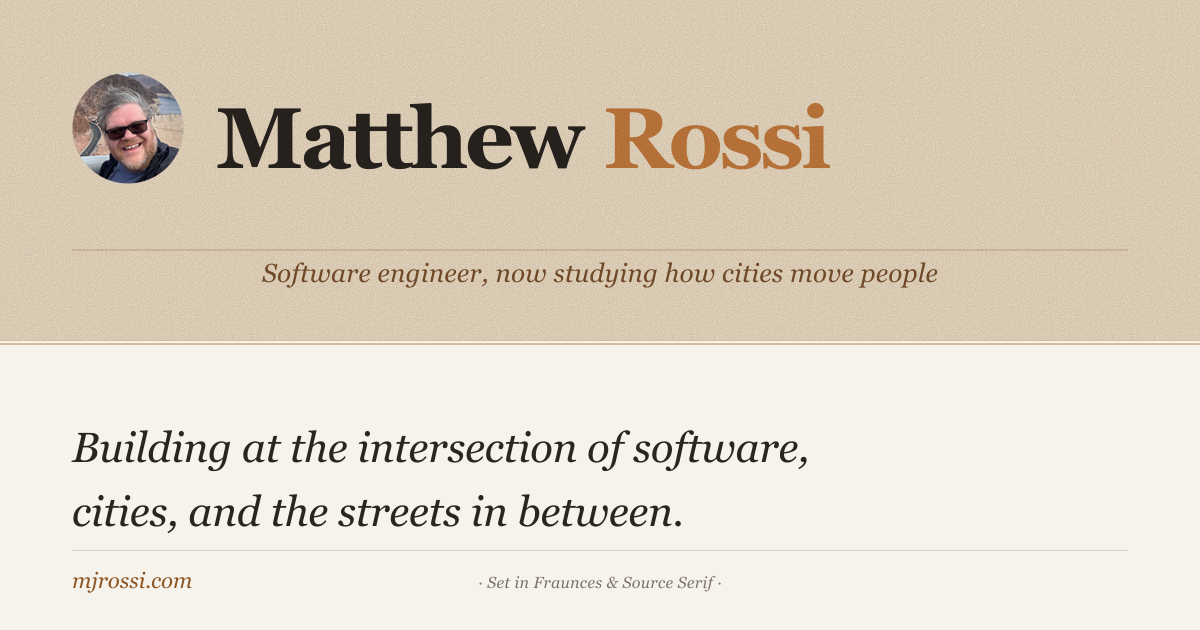
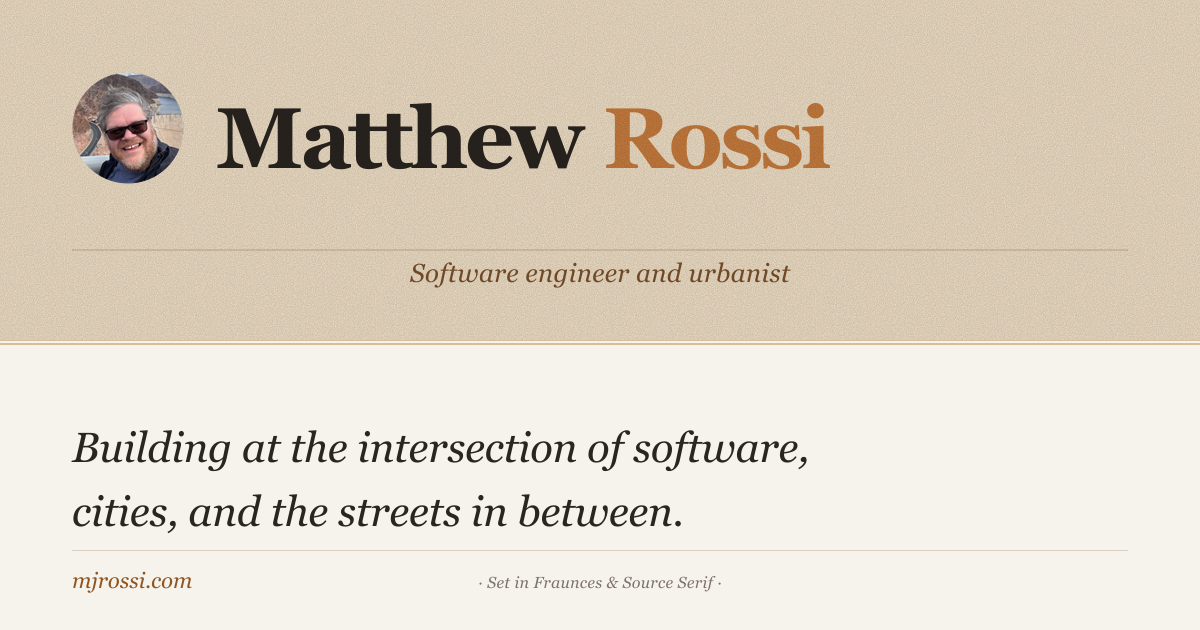
Social card gets its own identity-only line; review fixes
- src/lib/identity.js: CARD_TAGLINE ("Software engineer and urbanist") and
  CARD_DESCRIPTION. The masthead TAGLINE says "now studying", a fact about
  the present; the card is cached by scrapers indefinitely, so it says
  CARD_TAGLINE instead. make-og.mjs renders it, the default og:image:alt
  follows it, public/og.png regenerated (still ?v=3, unshipped).
- Smoke: make-og.mjs must name CARD_TAGLINE and not TAGLINE; neither
  renderer may spell CARD_TAGLINE itself.
- Smoke: the Night checks are anchored on the @media screen wrapper, which is
  the print fallback. Unanchored, they passed with it deleted.
- Theme toggle: the visible pressed state keys off <html data-theme>, set
  before first paint, not aria-pressed, which syncs at DOMContentLoaded.
- Inter 700 loaded (nav cells, foot headings, tag chips were faux-bold).
  Same variable-font file; no extra request.
- --danger token in Paper and both Night blocks; the galley composer's
  error line uses it instead of the meta-text brown.
- Docs: identity.js entries, "chrome that works whole without JS", the
  surname's 2.6:1 on the band, and the carve-out counts in smoke comments.

Changed region(s): [[0.2158, 0.4222, 0.8017, 0.4524]]

diff --git a/src/lib/identity.js b/src/lib/identity.js
@@ -31,8 +31,22 @@
 // than a sentence — an `<h1>` with a `<span>` here, a `<text>` with a `<tspan>`
 // there — so there is no shared value to lift, only a shared shape.
 
-/** The masthead tagline. Also the spine of `SITE_DESCRIPTION` below. */
+/**
+ * The masthead tagline. Also the spine of `SITE_DESCRIPTION` below.
+ *
+ * NOT the social card's line. "Now studying" is a fact about the present, and
+ * the card may state identity only (see `scripts/make-og.mjs`): the page is
+ * re-rendered on every request and can follow this sentence, but the card is
+ * cached by scrapers that never re-fetch it. The card says `CARD_TAGLINE`.
+ */
 export const TAGLINE = 'Software engineer, now studying how cities move people';
+
+/**
+ * The social card's line: who, not what now. It must stay true for as long as
+ * a scraper might hold the card, which is indefinitely. Changing it means
+ * `just og`, then bumping `?v=` on `Base.astro`'s `ogImage` default.
+ */
+export const CARD_TAGLINE = 'Software engineer and urbanist';
 
 /**
  * The Urbanist Lexicon's own line: the tagline of the periodical's masthead on
@@ -49,8 +63,8 @@ export const SET_IN = 'Set in Fraunces & Source Serif';
 export const BUILT_WITH = 'Built in Astro, served from the edge';
 
 /**
- * The default `<meta name="description">`, `og:description` and OG-card alt
- * text — the tagline as a sentence, with the byline in front.
+ * The default `<meta name="description">` and `og:description` — the tagline
+ * as a sentence, with the byline in front.
  *
  * Derived rather than spelled out because it *is* the tagline: written
  * separately it was a fourth copy, and the one furthest from anything a reader
@@ -58,3 +72,10 @@ export const BUILT_WITH = 'Built in Astro, served from the edge';
  */
 export const SITE_DESCRIPTION =
   `Matthew Rossi — ${TAGLINE[0].toLowerCase()}${TAGLINE.slice(1)}.`;
+
+/**
+ * The default `og:image:alt` / `twitter:image:alt`. Alt text describes the
+ * image, so it follows the card's line, not the masthead's.
+ */
+export const CARD_DESCRIPTION =
+  `Matthew Rossi — ${CARD_TAGLINE[0].toLowerCase()}${CARD_TAGLINE.slice(1)}.`;

diff --git a/src/styles/global.css b/src/styles/global.css
@@ -13,6 +13,10 @@
   --accent-tagline: oklch(46% 0.07 60);
   --accent-hover: #7a4a1a;
 
+  /* A failed action, and nothing else: the galley composer's error line.
+     ≥5.3:1 on --bg and --bg2 in both themes. */
+  --danger: #aa3333;
+
   /* Ported from Urbanist Atlas so the two sites draw rules and secondary ink
      from one vocabulary (Atlas: --ink-2, --rule-strong). */
   --text-2: #3a312a;
@@ -67,6 +71,7 @@
     --accent-rule: oklch(40% 0.045 65);
     --accent-tagline: oklch(74% 0.07 65);
     --rule-strong: oklch(52% 0.04 70);
+    --danger: #e8877a;
     --grain-opacity: 0.12;
     --grain-blend: screen;
     color-scheme: dark;
@@ -89,6 +94,7 @@
     --accent-rule: oklch(40% 0.045 65);
     --accent-tagline: oklch(74% 0.07 65);
     --rule-strong: oklch(52% 0.04 70);
+    --danger: #e8877a;
     --grain-opacity: 0.12;
     --grain-blend: screen;
     color-scheme: dark;
@@ -483,7 +489,14 @@ a.masthead-name-link:hover .surname {
   color: var(--accent);
 }
 
-.theme-toggle button[aria-pressed='true'] {
+/* The visible pressed state keys off <html data-theme>, which theme.js sets
+   before the first paint, not off aria-pressed, which it can only sync once
+   the DOM exists. Keyed off aria-pressed, a long post painting progressively
+   showed a reader who chose Dark the Auto glyph underlined until
+   DOMContentLoaded. aria-pressed stays for assistive tech. */
+:root:not([data-theme]) .theme-toggle [data-theme-choice='auto'],
+:root[data-theme='light'] .theme-toggle [data-theme-choice='light'],
+:root[data-theme='dark'] .theme-toggle [data-theme-choice='dark'] {
   color: var(--accent);
   border-bottom-color: var(--accent);
 }

diff --git a/docs/FILE-MAP.md b/docs/FILE-MAP.md
@@ -40,7 +40,7 @@ For the preview-link clock-and-cap model, the galley, and the Desk, the narrativ
 - `src/lib/blog.ts` — `getPublishedPosts`, `getAllTags`, `getPostsByTag`, `getTagCounts` (the topic index), `getAdjacentPosts` (previous/next), `getLatestPosts` (the post or posts a surface features), plus the `dateFormatter` / `isoDate` / `postReadingTime` helpers used by `BlogPostEntry.astro`. **`getAdjacentPosts` and `getLatestPosts` are one line each now** — the rule they used to hold lives in `src/lib/archive.js`, and these are the fetch in front of it. `static.mjs` asserts they still *call* it, the same shape as the `isPublished` call-site check. The single boundary between content source and rendering — a future D1 migration swaps only this module. `getPublishedPosts` also enforces scheduled publishing: in production (`import.meta.env.PROD`) it hides any post whose `pubDate` is in the future; in dev those posts stay visible for preview. Because index, tag, and post routes all flow through it, that one filter gates every surface (RSS included, via the on-demand feed). All three helpers take an optional `{ showScheduled }` — passed from `Astro.locals` so `*.workers.dev` preview deploys show drafts — defaulting to hidden so a call site that forgets it fails closed. The per-post signed-link unlock is deliberately *not* threaded through here; see "Previewing a scheduled post".
 - `src/lib/edition.js` — `issue(now?)` → `{ volume, number, label, short }`, plus `toRoman` and an `editionLine` alias for the full label. **One derivation, from one fixed launch epoch (`EPOCH = { year: 2026, month: 4 }`), called once per render in `Base.astro`.** The August 2026 design review found `/blog` rendering `No. VII · July 2026` while home and the posts rendered `No. VIII · August 2026` — a masthead whose date went backwards as the reader clicked. Nothing rendered in a **page's chrome** may derive an issue from a page, a route, or a content date — that is the bug, and it is a bug because two live surfaces disagreed about what *today's* issue was. A **build-time artifact that dates itself** is the one exception, and there is exactly one: `scripts/make-post-og.mjs` prints `issue(pubDate).short` on a post's OG card. That is a different claim — the issue the post ran in, not the issue it is now — and it is the claim a periodical's archived piece actually makes. It also cannot drift, which is the property `make-og.mjs` omits an edition line to protect: `pubDate` is fixed, so the card regenerates identically forever, where `issue(now)` would move under it every month. Do not read that exception as licence to put a content date into `Base.astro`. The number counts **months since launch**, not the calendar month: the old rule had the two halves on different clocks (`No. XII` was December whether the periodical was one month old or nine, and the volume turned over on New Year's Day). Twelve issues to a volume, the volume turning on the anniversary. Plain JS, not TypeScript, for the usual reason — the failure here is a plausible wrong number, so it needs tests and tests need an importable module. Unit-tested in `src/lib/edition.test.js`, which pins the launch month, the 1..12 range, the volume rollover, and the UTC month boundary.
 - `src/lib/tags.js` — `tagLabel(slug)` (title-cased for display, kebab slug stays in the URL — chips used to show `safe-streets` raw) and `RETIRED` / `retiredTarget(slug)`, the map from a tag the August 2026 consolidation dropped to where it goes now. Both jobs in one module because they are the same fact from two sides: what a topic is called, and what it used to be called. `src/pages/blog/tag/[tag].astro` checks `retiredTarget` **before** the membership test — a retired slug is by definition no longer in the live set — and 301s. Unit-tested in `src/lib/tags.test.js`, which also asserts every retired tag points at a slug some post actually carries (a map pointing at a 404 is worse than the 404 it replaced) and pins the working vocabulary against real frontmatter.
-- `src/lib/identity.js` — `TAGLINE`, `SET_IN`, `BUILT_WITH`, `SITE_DESCRIPTION`: the sentences the site says about itself. Here because they are said in **two rendering engines that can import them** — `Base.astro` emits them as HTML on every page, `scripts/make-og.mjs` renders them into the SVG behind `public/og.png` — and a string spelled once per engine drifts. The OG card is the half that drifts *silently*: it is a manual `just og` step rather than a build step, and nothing here can read text out of a PNG. `SITE_DESCRIPTION` is derived from `TAGLINE` rather than written out, which removed two further copies inside `Base.astro` itself (`SITE_ALT` and the `description` default). **Stores plain text** — escaping belongs to the renderer, since Astro escapes its own `{}` expressions while the SVG needs `&amp;`; a pre-escaped string is wrong in the other engine. The two-tone wordmark and `mjrossi.com` are deliberately *not* here: they are shared markup shapes rather than shared sentences, so there is no value to lift. `scripts/smoke/static.mjs` asserts neither renderer spells either sentence itself, folding `&amp;` back to `&` first so the colophon's ampersand cannot hide a re-inlining. **The colophon has a third engine, and it cannot import** — `docs/buttondown-rss-template.md` is pasted by hand into Buttondown's dashboard, so it spells `SET_IN` and `BUILT_WITH` as literal markdown. That copy is pinned the *other* way round: smoke asserts the template still **matches** these constants, so editing one of them goes red until the template is updated and re-pasted. Rewriting a sentence here is therefore an operator step as well as a code change.
+- `src/lib/identity.js` — `TAGLINE`, `LEXICON_TAGLINE`, `CARD_TAGLINE`, `SET_IN`, `BUILT_WITH`, `SITE_DESCRIPTION`, `CARD_DESCRIPTION`: the sentences the site says about itself. Here because they are said in **two rendering engines that can import them** — `Base.astro` emits them as HTML on every page, `scripts/make-og.mjs` renders them into the SVG behind `public/og.png` — and a string spelled once per engine drifts. The OG card is the half that drifts *silently*: it is a manual `just og` step rather than a build step, and nothing here can read text out of a PNG. `SITE_DESCRIPTION` is derived from `TAGLINE` rather than written out, which removed two further copies inside `Base.astro` itself (`SITE_ALT` and the `description` default). **The card does not say `TAGLINE`.** The masthead line may state a fact about the present ("now studying"), because the page re-renders on every request; the card is cached by scrapers indefinitely, so `make-og.mjs` renders `CARD_TAGLINE`, an identity-only line, and the default `og:image:alt` is `CARD_DESCRIPTION`, derived from it, because alt text describes the image. Smoke asserts the generator names `CARD_TAGLINE` and not `TAGLINE`. `LEXICON_TAGLINE` is the periodical's own line, said by its masthead, the `/blog` description and the feed's `<description>`; smoke asserts none of the three spells it. **Stores plain text** — escaping belongs to the renderer, since Astro escapes its own `{}` expressions while the SVG needs `&amp;`; a pre-escaped string is wrong in the other engine. The two-tone wordmark and `mjrossi.com` are deliberately *not* here: they are shared markup shapes rather than shared sentences, so there is no value to lift. `scripts/smoke/static.mjs` asserts neither renderer spells either sentence itself, folding `&amp;` back to `&` first so the colophon's ampersand cannot hide a re-inlining. **The colophon has a third engine, and it cannot import** — `docs/buttondown-rss-template.md` is pasted by hand into Buttondown's dashboard, so it spells `SET_IN` and `BUILT_WITH` as literal markdown. That copy is pinned the *other* way round: smoke asserts the template still **matches** these constants, so editing one of them goes red until the template is updated and re-pasted. Rewriting a sentence here is therefore an operator step as well as a code change.
 - `src/lib/now.js` — `NOW_UPDATED` (`YYYY-MM`) and `nowUpdatedLabel()`, the dateline under the home page's **Now** heading. A config value rather than a string in the markup, so updating the section is one obvious line and a malformed value fails the build instead of rendering `Updated undefined`. Formatted from the parts, never through `new Date('2026-08')`, which is midnight UTC and renders as the previous month west of Greenwich. Unit-tested in `src/lib/now.test.js`.
 - `src/lib/readingTime.js` — word-count read time. Plain JS (was `.ts`) so `scripts/make-post-og.mjs` can import it under bare Node: the OG card prints the same read time the page does, and two implementations would drift the first time `WORDS_PER_MINUTE` moved.
 - `src/layouts/BlogPost.astro` — post chrome (title, byline, tags, optional cover, back link).
@@ -99,7 +99,7 @@ For the preview-link clock-and-cap model, the galley, and the Desk, the narrativ
   - `live-preview.mjs` — "can a draft leak": the scheduled-post matrix, the galley matrix, the allowlist, the write-quota flood, anchoring, and both directions of the host unlock.
   - `access.mjs` — the Cloudflare Access harness: a keypair generated per run, the JWKS handed to the worker as `ACCESS_JWKS_OVERRIDE`, and a minter. Also `conflictingDevVars`, which is why `smoke.mjs` refuses to start when `.dev.vars` would shadow it — wrangler prefers `.dev.vars` over `--var`, and unlike `PREVIEW_SIGNING_KEY` smoke cannot adopt the developer's value, because the matching private key is not in the file.
   - `live-desk.mjs` — "can the draft inventory leak": `/admin` closed to no token, an expired one, a malformed one, and a valid token for a **different Access application on the same team**; then open to a real one, with `no-store` + `noindex`, the fixture roster, the notes, and the orphan section's slug rendered as a *link* (it is the only route to that roster). The negative cases fail independently on purpose. The `desk-` HTML greps here are only half the leak check — see `static.mjs` for the CSS-bundle half.
-- `scripts/make-noise.mjs`, `scripts/make-og.mjs` — one-off regenerators for `public/noise.png` and `public/og.png`. **The site-level card states identity only — never a fact about the present.** Social scrapers cache by image URL and effectively never re-fetch, so a card asserting where I live is wrong the moment that moves *and* the correction cannot reach the caches already holding it. That is the general rule the missing edition line was only the first case of: the card read "Brooklyn, New York" for months after the masthead said Lisbon, because this is a manual `just og` step rather than a build step and nothing compared the two. `make-post-og.mjs` may carry a date and a read time because those are facts about the *post*, pinned to a `pubDate` that never moves. `scripts/smoke/static.mjs` greps the generator for the regression, since nothing here can read text out of a PNG. Bump the `?v=` on `Base.astro`'s `ogImage` default whenever the card changes — the filename stays put, so a scraper that strips the query still lands on the current card.
+- `scripts/make-noise.mjs`, `scripts/make-og.mjs` — one-off regenerators for `public/noise.png` and `public/og.png`. **The site-level card states identity only — never a fact about the present.** Social scrapers cache by image URL and effectively never re-fetch, so a card asserting where I live is wrong the moment that moves *and* the correction cannot reach the caches already holding it. That is the general rule the missing edition line was only the first case of, and why the card's line is `CARD_TAGLINE` rather than the masthead's `TAGLINE`: the card read "Brooklyn, New York" for months after the masthead said Lisbon, because this is a manual `just og` step rather than a build step and nothing compared the two. `make-post-og.mjs` may carry a date and a read time because those are facts about the *post*, pinned to a `pubDate` that never moves. `scripts/smoke/static.mjs` greps the generator for the regression, since nothing here can read text out of a PNG. Bump the `?v=` on `Base.astro`'s `ogImage` default whenever the card changes — the filename stays put, so a scraper that strips the query still lands on the current card.
 - `scripts/make-post-og.mjs` — **runs on every `npm run build`**, after `astro build`, writing one 1200×630 card per post into `dist/client/og/<slug>.png`. Not a one-off like the two above: a post without a card would fall back to the generic image silently, so the generator enumerates the content directory and cannot rot. **Published posts only** — a card carries the post's title and `/og/<slug>.png` is a guessable URL, so generating one for a scheduled draft would hand that draft's title to anyone who guessed the slug (cover images get away with being built ahead because `astro:assets` hash-names them). A post therefore uses `/og.png` until the deploy that follows its publication, which step 5 of the authoring workflow produces anyway.
 
   **The layout asks the build's clock, not the request's, and the two are not interchangeable.** `BlogPost.astro` advertises a card when `isPublished(pubDate, __BUILD_TIME__)` — not when the post is published *now*. A post goes live by its `pubDate` passing with no deploy behind it, which is the whole scheduled-publishing mechanism; gate the `og:image` on the request's clock and that post starts advertising an `/og/<slug>.png` nobody generated, 404ing for every scraper during exactly the manual-syndication window the card exists for. Nothing else can see this: at build time the two agree by construction, so the built HTML is identical and every artifact check passes — the divergence opens hours later, in production. Three things pin it, and all three are needed because each is satisfied by a build that emitted no cards at all: a source grep on the gate (`scripts/smoke/static.mjs`), the file on disk plus the fixture's card being **absent** (same file), and the worker actually serving it (`live-site.mjs`, which is the ASSETS-binding half rather than the generator's). Renders SVG through **sharp** rather than Satori in the worker: sharp already ships with astro, so this costs a build step and nothing at runtime, whereas Satori plus a WASM rasteriser plus embedded font binaries is a large addition to a worker whose point is being small. Title width is *estimated*, not measured (0.58em/char with headroom, stepping the size down a ladder until it fits) — the estimate errs generous on purpose, because being wrong the other way runs the last word off the card.

diff --git a/CLAUDE.md b/CLAUDE.md
@@ -58,7 +58,7 @@ One line per file. **The reasoning — why each rule exists and the bug it preve
 - `src/lib/pubdate.js` — `coercePubDate`: the frontmatter-date rule, shared by the build and the minting scripts. Rejects one shape only.
 - `src/lib/tags.js` — `tagLabel` plus `RETIRED` / `retiredTarget`, the map from a consolidated tag to where it goes now.
 - `src/lib/edition.js` — `issue(now?)`. **One derivation, one launch epoch, called once per render in `Base.astro`.** Nothing in page chrome may derive an issue from content.
-- `src/lib/identity.js` — `TAGLINE`, `LEXICON_TAGLINE`, `SET_IN`, `BUILT_WITH`, `SITE_DESCRIPTION`: the sentences the site says about itself, in **three** engines.
+- `src/lib/identity.js` — `TAGLINE`, `LEXICON_TAGLINE`, `CARD_TAGLINE`, `SET_IN`, `BUILT_WITH`, `SITE_DESCRIPTION`, `CARD_DESCRIPTION`: the sentences the site says about itself, in **three** engines. The social card says `CARD_TAGLINE`, never `TAGLINE`.
 - `src/lib/now.js` — `NOW_UPDATED` and `nowUpdatedLabel()`, the dateline under the home page's Now heading.
 - `src/lib/readingTime.js` — word-count read time. Plain JS so the OG generator can import it under bare Node.
 - `src/lib/post-source.ts` — `SOURCE_BY_SLUG` and `revisionOf(slug)`. Two definitions of this hash would refuse every galley write.
@@ -127,13 +127,13 @@ One line per file. **The reasoning — why each rule exists and the bug it preve
 Shared with Urbanist Atlas as the **Lexicon Family** — one paper, one amber, three typefaces. The Design System artifact at https://claude.ai/artifact/MqHpb7fJPnWU7VugYdtd57 (tokens, component guidelines, previews, and the token-name map between the two repos) is split into two layers with different owners:
 
 - **Family core — the artifact is canonical, for both sites.** Tokens in both themes and the Night mechanism; the type families, scale and label conventions; spacing, square radii, and rules-not-shadows with their weights; the shared chrome primitives (masthead band, grain, double rule, folio and tagline row; numbered nav cells; kicker; rail blocks; § tags; site-foot and colophon strip; the icon theme toggle and the `theme.js` contract); and the accessibility rules (contrast floors in both themes, `--accent-surname` ≥24px only, focus ring, no page-level horizontal scroll). A change to the core starts in the artifact and then lands in both repos. If this repo's code disagrees with the core and the difference is not listed under "Local variations" below, the code is the bug.
-- **Site layer — this repo is canonical.** What fills the shared shapes (wordmarks, which masthead a route gets, taglines, folio text), site-only components built *from* core tokens (entries, post furniture, the galley, the Desk, the subscribe form), per-page layout, and platform constraints (zero-JS chrome, this CSP). The core says how a primitive behaves; this repo decides how to implement it within its limits.
+- **Site layer — this repo is canonical.** What fills the shared shapes (wordmarks, which masthead a route gets, taglines, folio text), site-only components built *from* core tokens (entries, post furniture, the galley, the Desk, the subscribe form), per-page layout, and platform constraints (chrome that works whole without JS, this CSP). The core says how a primitive behaves; this repo decides how to implement it within its limits.
 - **Token names stay per repo.** This repo keeps `--bg` / `--text` / `--accent`…; Atlas keeps `--paper` / `--ink` / `--amber`…. The artifact holds the map. Renaming is churn with no visible payoff.
 - **A fix that would help both sites goes to the core**, not to Local variations — the 640–819px nav tightening is the worked example.
 
 Don't publish to the artifact without coordinating: both repos' agents write to it.
 
-**Two themes from one set of token names.** Paper (the values below) is `:root`. Night redefines the same tokens under `:root[data-theme="dark"]` and again under `prefers-color-scheme: dark` guarded by `:root:not([data-theme="light"])`, both inside `@media screen` so print always gets Paper — keep the two Night blocks identical (smoke compares them). Every colour resolves through a token, so a new rule never needs its own dark override; a literal colour in a new rule is the bug. Night's `--accent` is `#d9955a` (≥6.4:1 on every ground); `--accent-surname` is display-size only (≥24px) in both themes — about 3:1 on Paper.
+**Two themes from one set of token names.** Paper (the values below) is `:root`. Night redefines the same tokens under `:root[data-theme="dark"]` and again under `prefers-color-scheme: dark` guarded by `:root:not([data-theme="light"])`, both inside `@media screen` so print always gets Paper — keep the two Night blocks identical (smoke compares them). Every colour resolves through a token, so a new rule never needs its own dark override; a literal colour in a new rule is the bug. Night's `--accent` is `#d9955a` (≥6.4:1 on every ground); `--accent-surname` is display-size only (≥24px) in both themes — about 3:1 on Paper's `--bg`, and 2.6:1 on the masthead band, which the core accepts as the family's signature.
 
 CSS custom properties at `:root` in `src/styles/global.css` (warm-amber Broadsheet palette, light cream background):
 

diff --git a/docs/ARCHITECTURE.md b/docs/ARCHITECTURE.md
@@ -173,7 +173,7 @@ If you change a CSS token, a route's chrome, or the navigation contract, expect 
 ## One-off generators
 
 - `scripts/make-noise.mjs` — regenerates `public/noise.png` from an SVG `feTurbulence` filter via `sharp`. Run when changing the masthead grain look.
-- `scripts/make-og.mjs` — regenerates `public/og.png` (1200×630). Mirrors the live masthead at OG dimensions: amber band with tiled noise overlay, Fraunces-style serif name with accented surname, italic tagline framed by rules, editorial pull quote, Broadsheet footer. The tagline and colophon are imported from `src/lib/identity.js`, the single spelling shared with `Base.astro` — the two are rendered by different engines (HTML vs SVG), and a sentence spelled once per engine drifts. Falls back to Georgia/system-ui because the site fonts aren't installed in Node — close enough at OG sizes. Intentionally omits the edition line *and* any location so the card stays timeless — it states identity only, never a fact about the present. Guarded by a source grep in `scripts/smoke/static.mjs`, since nothing can read text out of a PNG.
+- `scripts/make-og.mjs` — regenerates `public/og.png` (1200×630). Mirrors the live masthead at OG dimensions: amber band with tiled noise overlay, Fraunces-style serif name with accented surname, italic tagline framed by rules, editorial pull quote, Broadsheet footer. The card's line (`CARD_TAGLINE`, identity only, not the masthead's `TAGLINE`) and the colophon are imported from `src/lib/identity.js`, the single spelling shared with `Base.astro` — the two are rendered by different engines (HTML vs SVG), and a sentence spelled once per engine drifts. Falls back to Georgia/system-ui because the site fonts aren't installed in Node — close enough at OG sizes. Intentionally omits the edition line *and* any location so the card stays timeless — it states identity only, never a fact about the present. Guarded by a source grep in `scripts/smoke/static.mjs`, since nothing can read text out of a PNG.
 
 ## Things to know when changing the design
 
